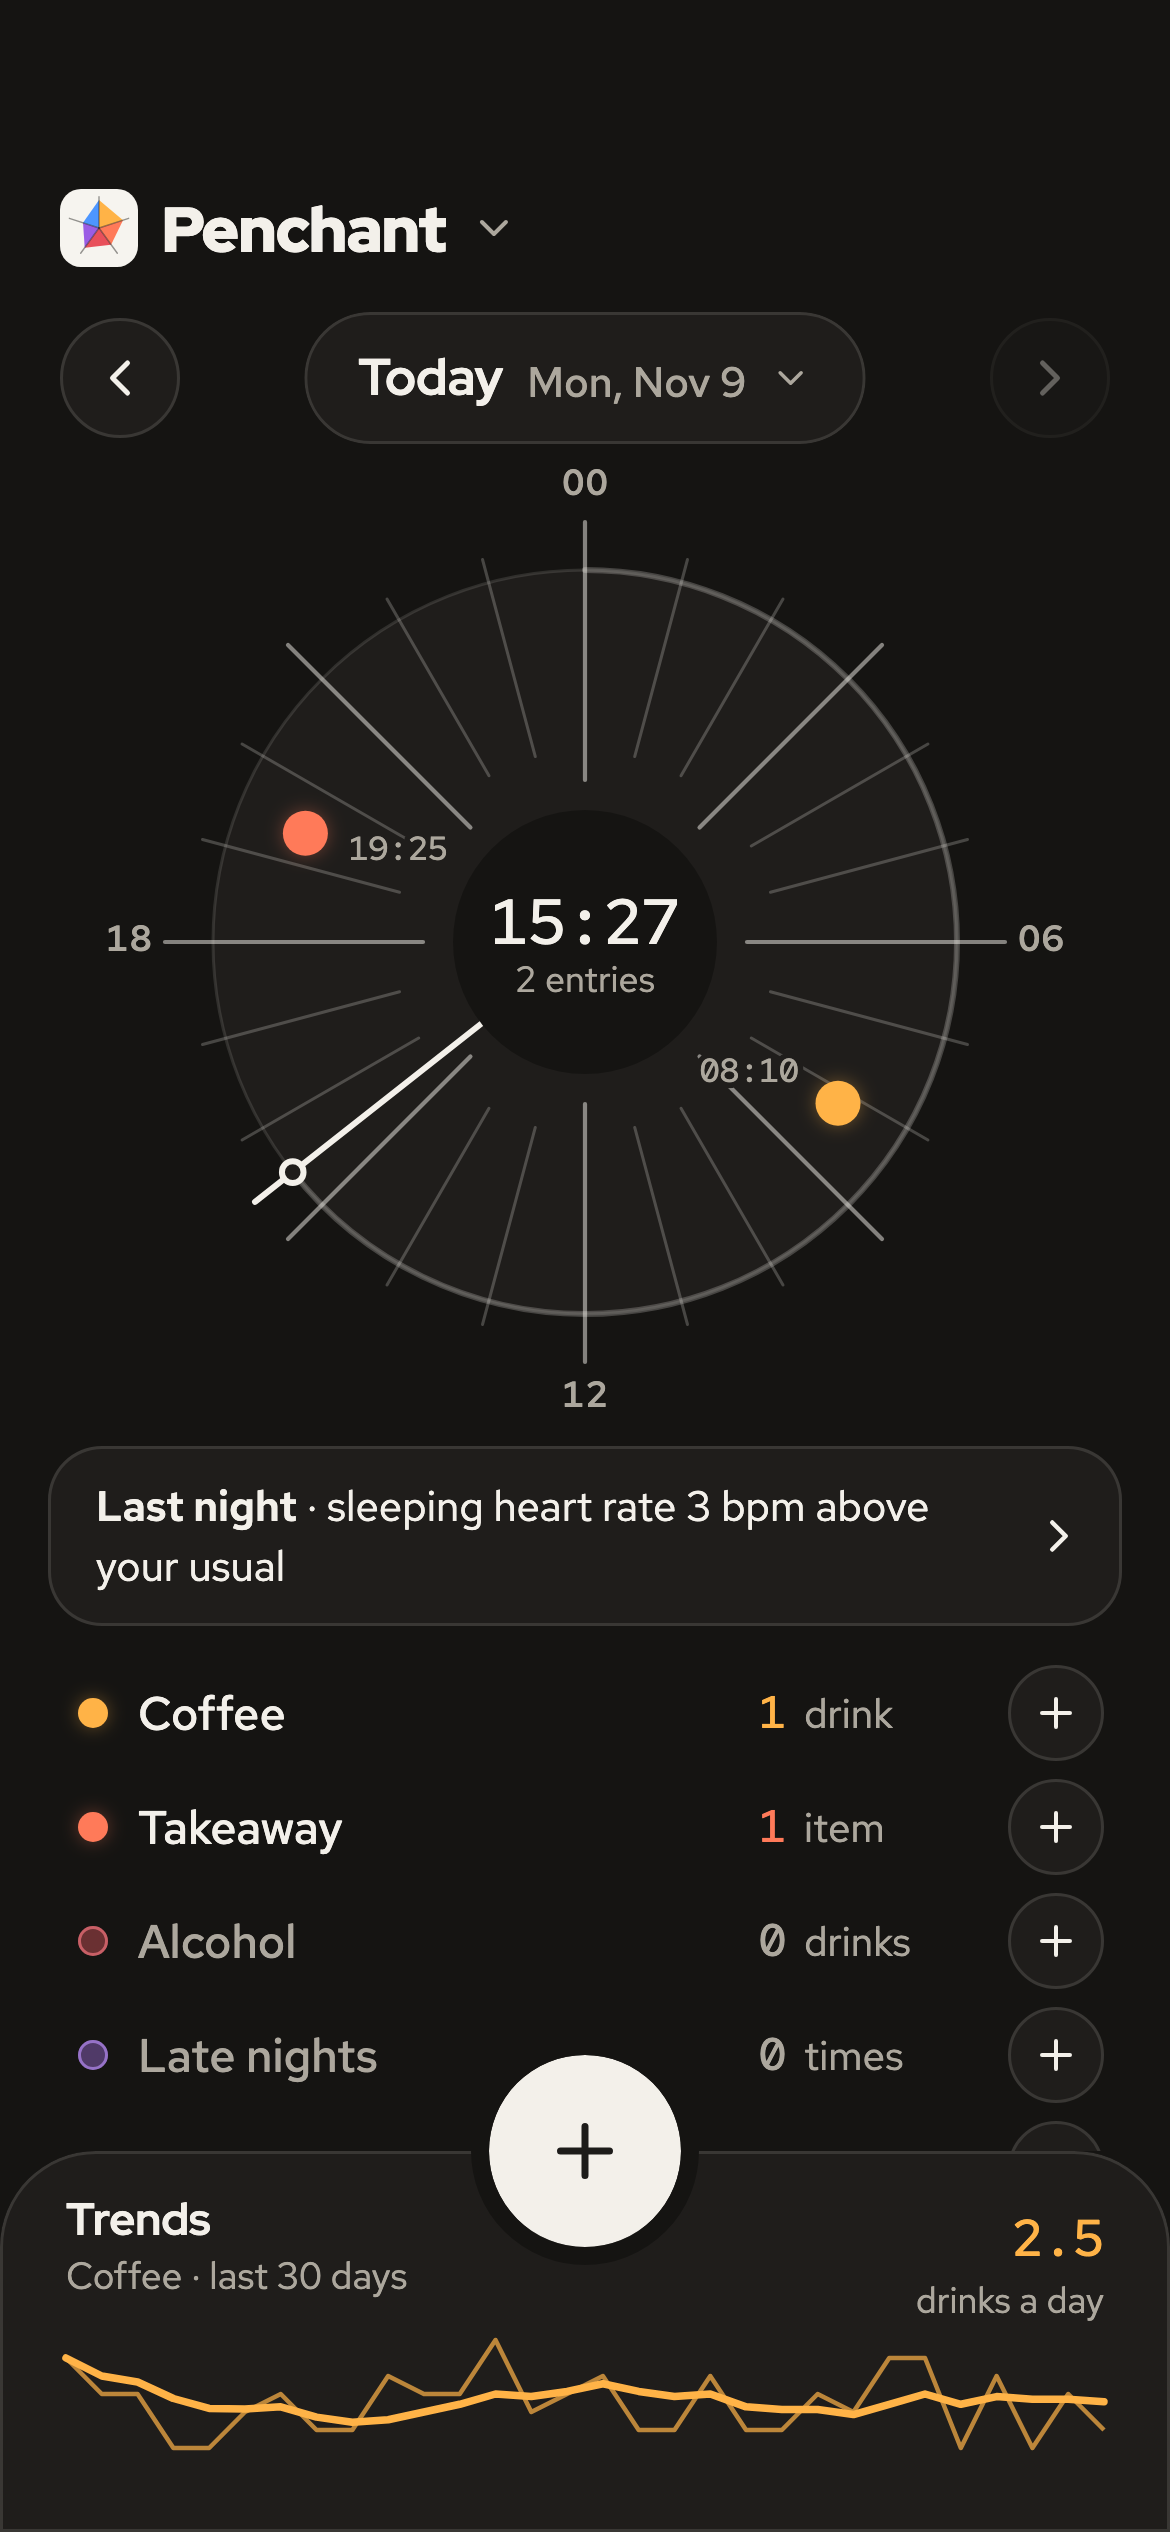
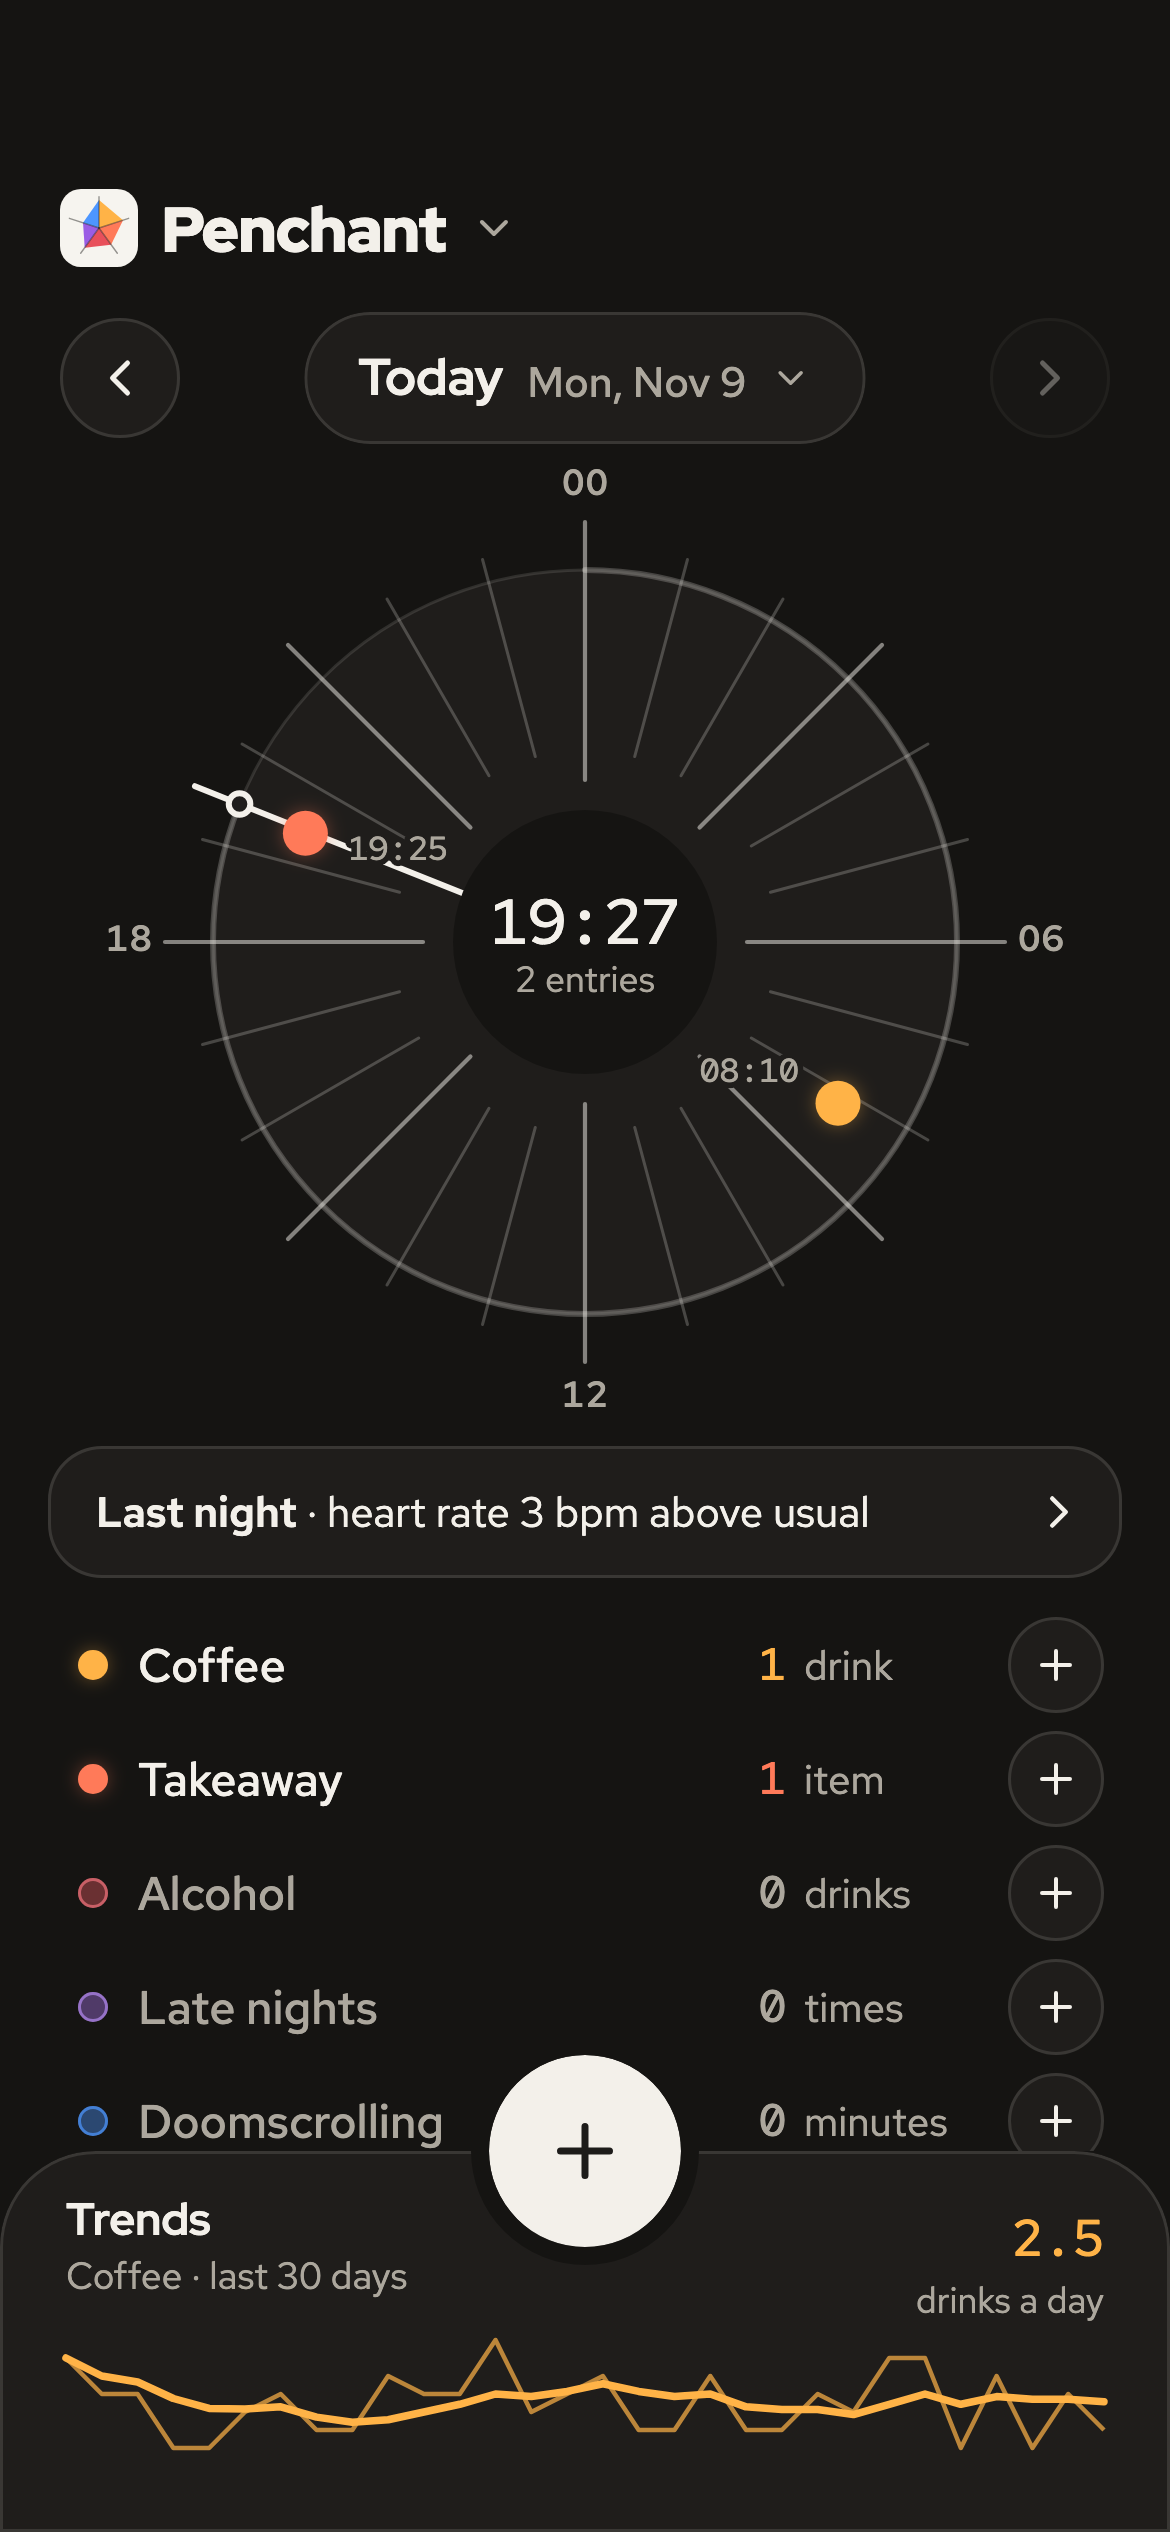
Last night's usual is the 10th to 90th percentile; Today's line reads "heart rate 3 bpm above usual"

diff --git a/lib/widgets/last_night_line.dart b/lib/widgets/last_night_line.dart
@@ -16,13 +16,20 @@ class LastNightLine extends ConsumerWidget {
 
   static const String lead = 'Last night';
 
-  /// "sleeping heart rate 3 bpm above your usual".
+  /// "heart rate 3 bpm above usual"; one line at 390 pt after "Last night".
   static String body(NightCompare heart) => switch (heart.side) {
+    NightSide.above => 'heart rate ${heart.shownBy} bpm above usual',
+    NightSide.below => 'heart rate ${heart.shownBy} bpm below usual',
+    NightSide.usual => 'heart rate within usual',
+  };
+
+  /// The full meaning for a screen reader.
+  static String spoken(NightCompare heart) => switch (heart.side) {
     NightSide.above =>
       'sleeping heart rate ${heart.shownBy} bpm above your usual',
     NightSide.below =>
       'sleeping heart rate ${heart.shownBy} bpm below your usual',
-    NightSide.usual => 'sleeping heart rate in your usual range',
+    NightSide.usual => 'sleeping heart rate within your usual range',
   };
 
   @override
@@ -58,7 +65,7 @@ class LastNightLine extends ConsumerWidget {
             onTap: () => Navigator.of(context).pushNamed(InsightsPage.route),
             child: Semantics(
               button: true,
-              label: '$lead, ${body(heart)}',
+              label: '$lead, ${spoken(heart)}',
               hint: 'Opens Insights',
               excludeSemantics: true,
               child: ConstrainedBox(

diff --git a/test/insights/last_night_test.dart b/test/insights/last_night_test.dart
@@ -26,7 +26,7 @@ void main() {
 
   group('compareLastNight', () {
     test(
-      'last night against the median and quartiles of the nights before',
+      'last night against the median and 10th to 90th percentiles of the nights before',
       () {
         final NightCompare c = compareLastNight(
           _nights(<int, double>{
@@ -39,8 +39,8 @@ void main() {
         )!;
         expect(c.value, 60);
         expect(c.usual, 52);
-        expect(c.low, 51);
-        expect(c.high, 53);
+        expect(c.low, 50);
+        expect(c.high, 54);
         expect(c.side, NightSide.above);
       },
     );
@@ -65,7 +65,7 @@ void main() {
       );
     });
 
-    test('a value outside the quartiles but shown as the usual is usual', () {
+    test('a value outside the usual range but shown as the usual is usual', () {
       const NightCompare c = NightCompare(
         value: 54.4,
         usual: 54,

diff --git a/test/last_night_line_test.dart b/test/last_night_line_test.dart
@@ -45,7 +45,7 @@ void main() {
 
     expect(
       find.text(
-        'Last night · sleeping heart rate 3 bpm above your usual',
+        'Last night · heart rate 3 bpm above usual',
         findRichText: true,
       ),
       findsOneWidget,
@@ -84,13 +84,13 @@ void main() {
       LastNightLine.body(
         const NightCompare(value: 54.4, usual: 54, low: 53, high: 55),
       ),
-      'sleeping heart rate in your usual range',
+      'heart rate within usual',
     );
     expect(
       LastNightLine.body(
         const NightCompare(value: 50.6, usual: 54, low: 53, high: 55),
       ),
-      'sleeping heart rate 3 bpm below your usual',
+      'heart rate 3 bpm below usual',
     );
   });
 }

diff --git a/lib/insights/last_night.dart b/lib/insights/last_night.dart
@@ -25,7 +25,7 @@ class NightCompare {
   /// The median of the baseline nights.
   final double usual;
 
-  /// The baseline's first and third quartiles: the usual range.
+  /// The baseline's 10th and 90th percentiles ([quantile]): the usual range.
   final double low;
   final double high;
 
@@ -59,8 +59,8 @@ NightCompare? compareLastNight(Map<DateTime, double> byNight, DateTime today) {
   return NightCompare(
     value: last,
     usual: quantile(before, 0.5),
-    low: quantile(before, 0.25),
-    high: quantile(before, 0.75),
+    low: quantile(before, 0.1),
+    high: quantile(before, 0.9),
   );
 }
 

diff --git a/lib/insights/stats.dart b/lib/insights/stats.dart
@@ -12,7 +12,8 @@ double sampleVariance(List<double> values) {
 }
 
 // The [q] quantile by linear interpolation between order statistics (R's
-// type 7). [values] must not be empty.
+// type 7: the sorted value at fractional index (n - 1) * q, so the 10th
+// percentile is q = 0.1). [values] must not be empty.
 double quantile(List<double> values, double q) {
   final List<double> sorted = values.toList()..sort();
   final double h = (sorted.length - 1) * q;

diff --git a/test/vice_tracker_test.dart b/test/vice_tracker_test.dart
@@ -255,7 +255,7 @@ void main() {
       await tester.pump();
       expect(find.byType(LastNightLine), findsOneWidget);
       expect(
-        find.textContaining('3 bpm above your usual', findRichText: true),
+        find.textContaining('3 bpm above usual', findRichText: true),
         findsOneWidget,
       );
 
